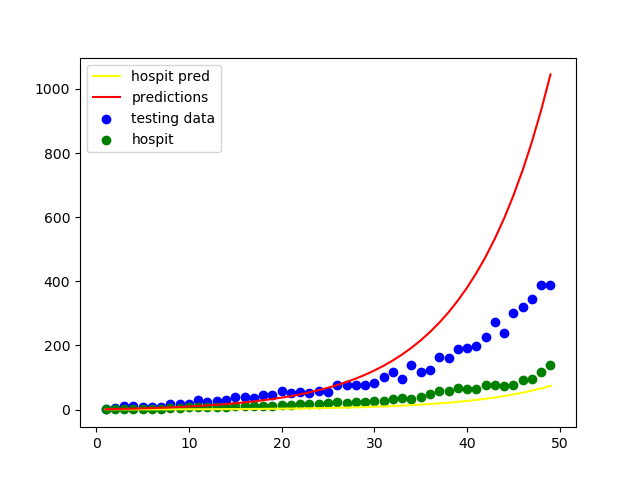
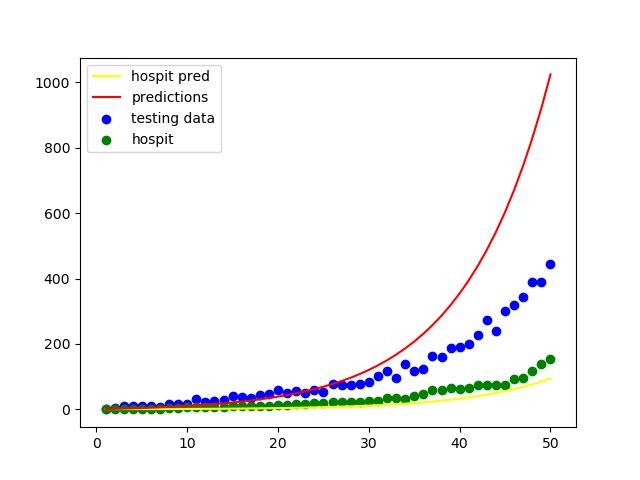
update

diff --git a/Model/SEIR.py b/Model/SEIR.py
@@ -24,8 +24,8 @@ class SEIR():
         self.hp = 0.05          # Hospit rate
         self.hcr = 0.2          # Hospit recovery rate
         self.pc = 0.1           # Critical rate
-        self.pd = 0.1           # Critical recovery rate
-        self.pcr = 0.3          # Critical mortality
+        self.pd = 0.1           # Critical mortality
+        self.pcr = 0.3          # Critical recovery rate
         self.s = 0.765          # Sensitivity
         self.t = 0.75           # Testing rate in symptomatical
 
@@ -98,6 +98,99 @@ class SEIR():
         self.cobyla = True
         self.LBFGSB = False
         self.auto = False
+
+
+    def stochastic_predic(self, time):
+
+
+
+        output = np.zeros((len(time), 7))
+        # Initial state:
+        output[0][0] = self.S_0                       #s
+        output[0][1] = self.E_0                       #E
+        output[0][2] = self.I_0                       #i
+        output[0][3] = self.R_0                       #R
+        output[0][4] = self.H_0                       #H
+        output[0][5] = self.C_0                       #C
+        output[0][6] = self.D_0                       #F
+
+        N = 1000000
+
+        params = (self.beta, self.sigma, self.gamma, self.sensitivity)
+
+        for i in range(1, len(time)):
+
+            S_to_E = np.random.binomial(output[i-1][0], self.beta * output[i-1][2] / N)
+            E_to_I = np.random.binomial(output[i-1][1], self.sigma)
+            I_to_R = np.random.binomial(output[i-1][2], self.gamma)
+            I_to_H = np.random.binomial(output[i-1][2], self.hp)
+            H_to_C = np.random.binomial(output[i-1][4], self.pc)
+            H_to_R = np.random.binomial(output[i-1][4], self.hcr)
+            C_to_F = np.random.binomial(output[i-1][5], self.pd)
+            C_to_R = np.random.binomial(output[i-1][5], self.pcr)
+
+
+
+            # Update staes:
+            output[i][0] = output[i-1][0] - S_to_E                        #S
+            output[i][1] = output[i-1][1] + S_to_E - E_to_I               #E
+            output[i][2] = output[i-1][2] + E_to_I - I_to_R - I_to_H      #I
+            output[i][3] = output[i-1][3] + I_to_R + H_to_C + H_to_R      #R
+            output[i][4] = output[i-1][4] + I_to_H - H_to_R - H_to_C      #H
+            output[i][5] = output[i-1][5] + H_to_C - C_to_R - C_to_F      #C
+            output[i][6] = output[i-1][6] + C_to_F                        #F
+            output[i][7] = output[i-1][1]  
+
+
+        return output
+
+    def stochastic_mean(self, time, nb_simul):
+
+        result_S = np.zeros((len(time), nb_simul))
+        result_E = np.zeros((len(time), nb_simul))
+        result_I = np.zeros((len(time), nb_simul))
+        result_R = np.zeros((len(time), nb_simul))
+        result_H = np.zeros((len(time), nb_simul))
+        result_C = np.zeros((len(time), nb_simul))
+        result_F = np.zeros((len(time), nb_simul))
+
+        result_Conta = np.zeros((len(time), nb_simul))
+        for i in range(0, nb_simul):
+
+            pred = self.stochastic_predic(time)
+            for j in range(0, len(time)):
+                result_S[j][i] = pred[j][0]
+                result_E[j][i] = pred[j][1]
+                result_I[j][i] = pred[j][2]
+                result_R[j][i] = pred[j][3]
+                result_H[j][i] = pred[j][4]
+                result_C[j][i] = pred[j][5]
+                result_F[j][i] = pred[j][6]
+                result_Conta[j][i] = pred[j][7]
+
+        mean = np.zeros((len(time), 8))
+        std = np.zeros((len(time), 8))
+        for i in range(0, len(time)):
+            mean[i][0] = np.mean(result_S[i, :])
+            mean[i][1] = np.mean(result_E[i, :])
+            mean[i][2] = np.mean(result_I[i, :])
+            mean[i][3] = np.mean(result_R[i, :])
+            mean[i][4] = np.mean(result_H[i, :])
+            mean[i][5] = np.mean(result_C[i, :])
+            mean[i][6] = np.mean(result_F[i, :])
+            mean[i][7] = np.mean(result_Conta[i, :])
+
+            std[i][0] = np.std(result_S[i, :])
+            std[i][1] = np.std(result_E[i, :])
+            std[i][2] = np.std(result_I[i, :])
+            std[i][3] = np.std(result_R[i, :])
+            std[i][4] = np.std(result_H[i, :])
+            std[i][5] = np.std(result_C[i, :])
+            std[i][6] = np.std(result_F[i, :])
+            std[i][7] = np.std(result_Conta[i, :])
+
+
+        return mean, std
 
     def get_parameters(self):
 
@@ -212,7 +305,7 @@ class SEIR():
 
 
         # Print optimizer result
-        print(res)
+        # print(res)
         # Update model parameters:
         self.beta = res.x[0]
         self.sigma = res.x[1]
@@ -239,9 +332,11 @@ class SEIR():
             for i in range(0, pred.shape[0]):
                 conta.append(pred[i][7] - pred[i-1][7])
 
+
             # Compare with dataset:
             prb = 0
-            print(params)
+            # print(params)
+
             for i in range(0, pred.shape[0]):
                 p_k1 = p_k2 = p_k3 = p_k4 = p_k5 = p_k6 = self.overflow
                 # ======================================= #
@@ -250,11 +345,16 @@ class SEIR():
                 pa = params[8] * params[9]
                 n = np.around(pred[i][7] * pa)
                 k = self.dataset[i][7]
+                if i > 10 and i < 12:
+                    print(n)
+                    print(k)
                 p = 1 / self.b_s_1
-                if k < 0 and n < 0:
+                if k < 0 and n < 0:   # a vérifer k<0
+
                     k *= -1
                     n *= -1
                 if k > n:
+
                     tmp = n
                     n = k
                     k = tmp
@@ -277,6 +377,7 @@ class SEIR():
                 k = self.dataset[i][1]
                 p = 1 / self.b_s_2
                 if k < 0 and n < 0:
+                    print("hello 2")
                     k *= -1
                     n *= -1
                 if k > n:
@@ -301,6 +402,7 @@ class SEIR():
                 k = self.dataset[i][3]
                 p = 1 / self.b_s_3
                 if k < 0 and n < 0:
+                    print("hello 3")
                     k *= -1
                     n *= -1
                 if k > n:
@@ -325,6 +427,7 @@ class SEIR():
                 k = self.dataset[i][4]
                 p = 1 / self.b_s_4
                 if k < 0 and n < 0:
+                    print("hello 4")
                     k *= -1
                     n *= -1
                 if k > n:
@@ -348,7 +451,9 @@ class SEIR():
                 n = np.around(pred[i][5])
                 k = self.dataset[i][5]
                 p = 1 / self.b_s_5
+
                 if k < 0 and n < 0:
+                    print("hello 5")
                     k *= -1
                     n *= -1
                 if k > n:
@@ -373,6 +478,7 @@ class SEIR():
                 k = self.dataset[i][6]
                 p = 1 / self.b_s_6
                 if k < 0 and n < 0:
+                    print("hello 5")
                     k *= -1
                     n *= -1
                 if k > n:
@@ -399,7 +505,7 @@ class SEIR():
                     print('critical: {} - {}'.format(np.around(pred[i][5]), self.dataset[i][5]))
                     print('Fatalities: {} - {}'.format(np.around(pred[i][6]), self.dataset[i][6]))
 
-            print(prb)
+            # print(prb)
 
             return prb
 
@@ -423,6 +529,7 @@ class SEIR():
         self.E_0 = self.I_0 * 5
         self.R_0 = 0
         self.S_0 = 1000000 - self.I_0 - self.E_0
+        print(self.dataframe)
 
     def sensib_finder(self):
 
@@ -499,6 +606,8 @@ if __name__ == "__main__":
         print('dataset: {}, predict = {}'.format(model.dataset[i, 3], prd[i][4]))
     print('===  E values: ')
     print(prd[:, 1])
+
+
 
     # Plot
     plt.scatter(model.dataset[:, 0], model.dataset[:, 7], c='blue', label='testing data')

diff --git a/Python/double_h.py b/Python/double_h.py
@@ -25,6 +25,9 @@ class SEIR():
         self.hpB = 1/18
         self.hcr = 0  # Hospit Cure Rate: proba de guérir en hospitalisation
 
+    
+
+
     def set_hospit_prop(self, hospit_prop):
         self.hospit_prop = hospit_prop
 
@@ -321,7 +324,8 @@ class SEIR():
 
 def plot_predict_and_compare(df, pred, args='predict'):
     if 'predict' in args:
-        # just print predicted epidemic curves
+        # just print predicted epidemic curves Warning
+
         if "no_S" not in args:
             plt.plot(pred[:, 0], pred[:, 1], c='black', label="S")
         plt.plot(pred[:, 0], pred[:, 2], c='yellow', label="E")
@@ -373,7 +377,7 @@ def sec_method():
     R_0 = 0
 
     """ *****************************************************************************
-        ETAPE 1: 
+        ETAPE 1:
         Trouver le paramètre hp, de la même façon que dans methode 1
         *****************************************************************************
     """
@@ -402,11 +406,11 @@ def sec_method():
     plt.show()
 
     """ *****************************************************************************
-        ETAPE 2: 
-        On fit le modèle: 
+        ETAPE 2:
+        On fit le modèle:
             - D'abord les paramètres beta, gamma et sigma. Le paramètre hp a été fixé
                 à l'étape 1 et le paramètre hcr est fixé à zéro car n'intervient pas
-                dans le cas ou l'on fit sur les courbes I+R+H 
+                dans le cas ou l'on fit sur les courbes I+R+H
             - Après on fit hcr sur la courbe des hospitalisations.
         *****************************************************************************
     """
@@ -428,8 +432,8 @@ def sec_method():
 
 
     """ *****************************************************************************
-        Nous pouvons maintenant comparer les simulations et les données ainsi que 
-        dessiner des prédictions à long terme. 
+        Nous pouvons maintenant comparer les simulations et les données ainsi que
+        dessiner des prédictions à long terme.
         *****************************************************************************
     """
     predictions = model.predict(S_0, E_0, IA_0, IB_0, H_0, R_0, duration=150)
@@ -450,5 +454,3 @@ def sec_method():
 if __name__ == "__main__":
     # first_method()
     sec_method()
-
-
